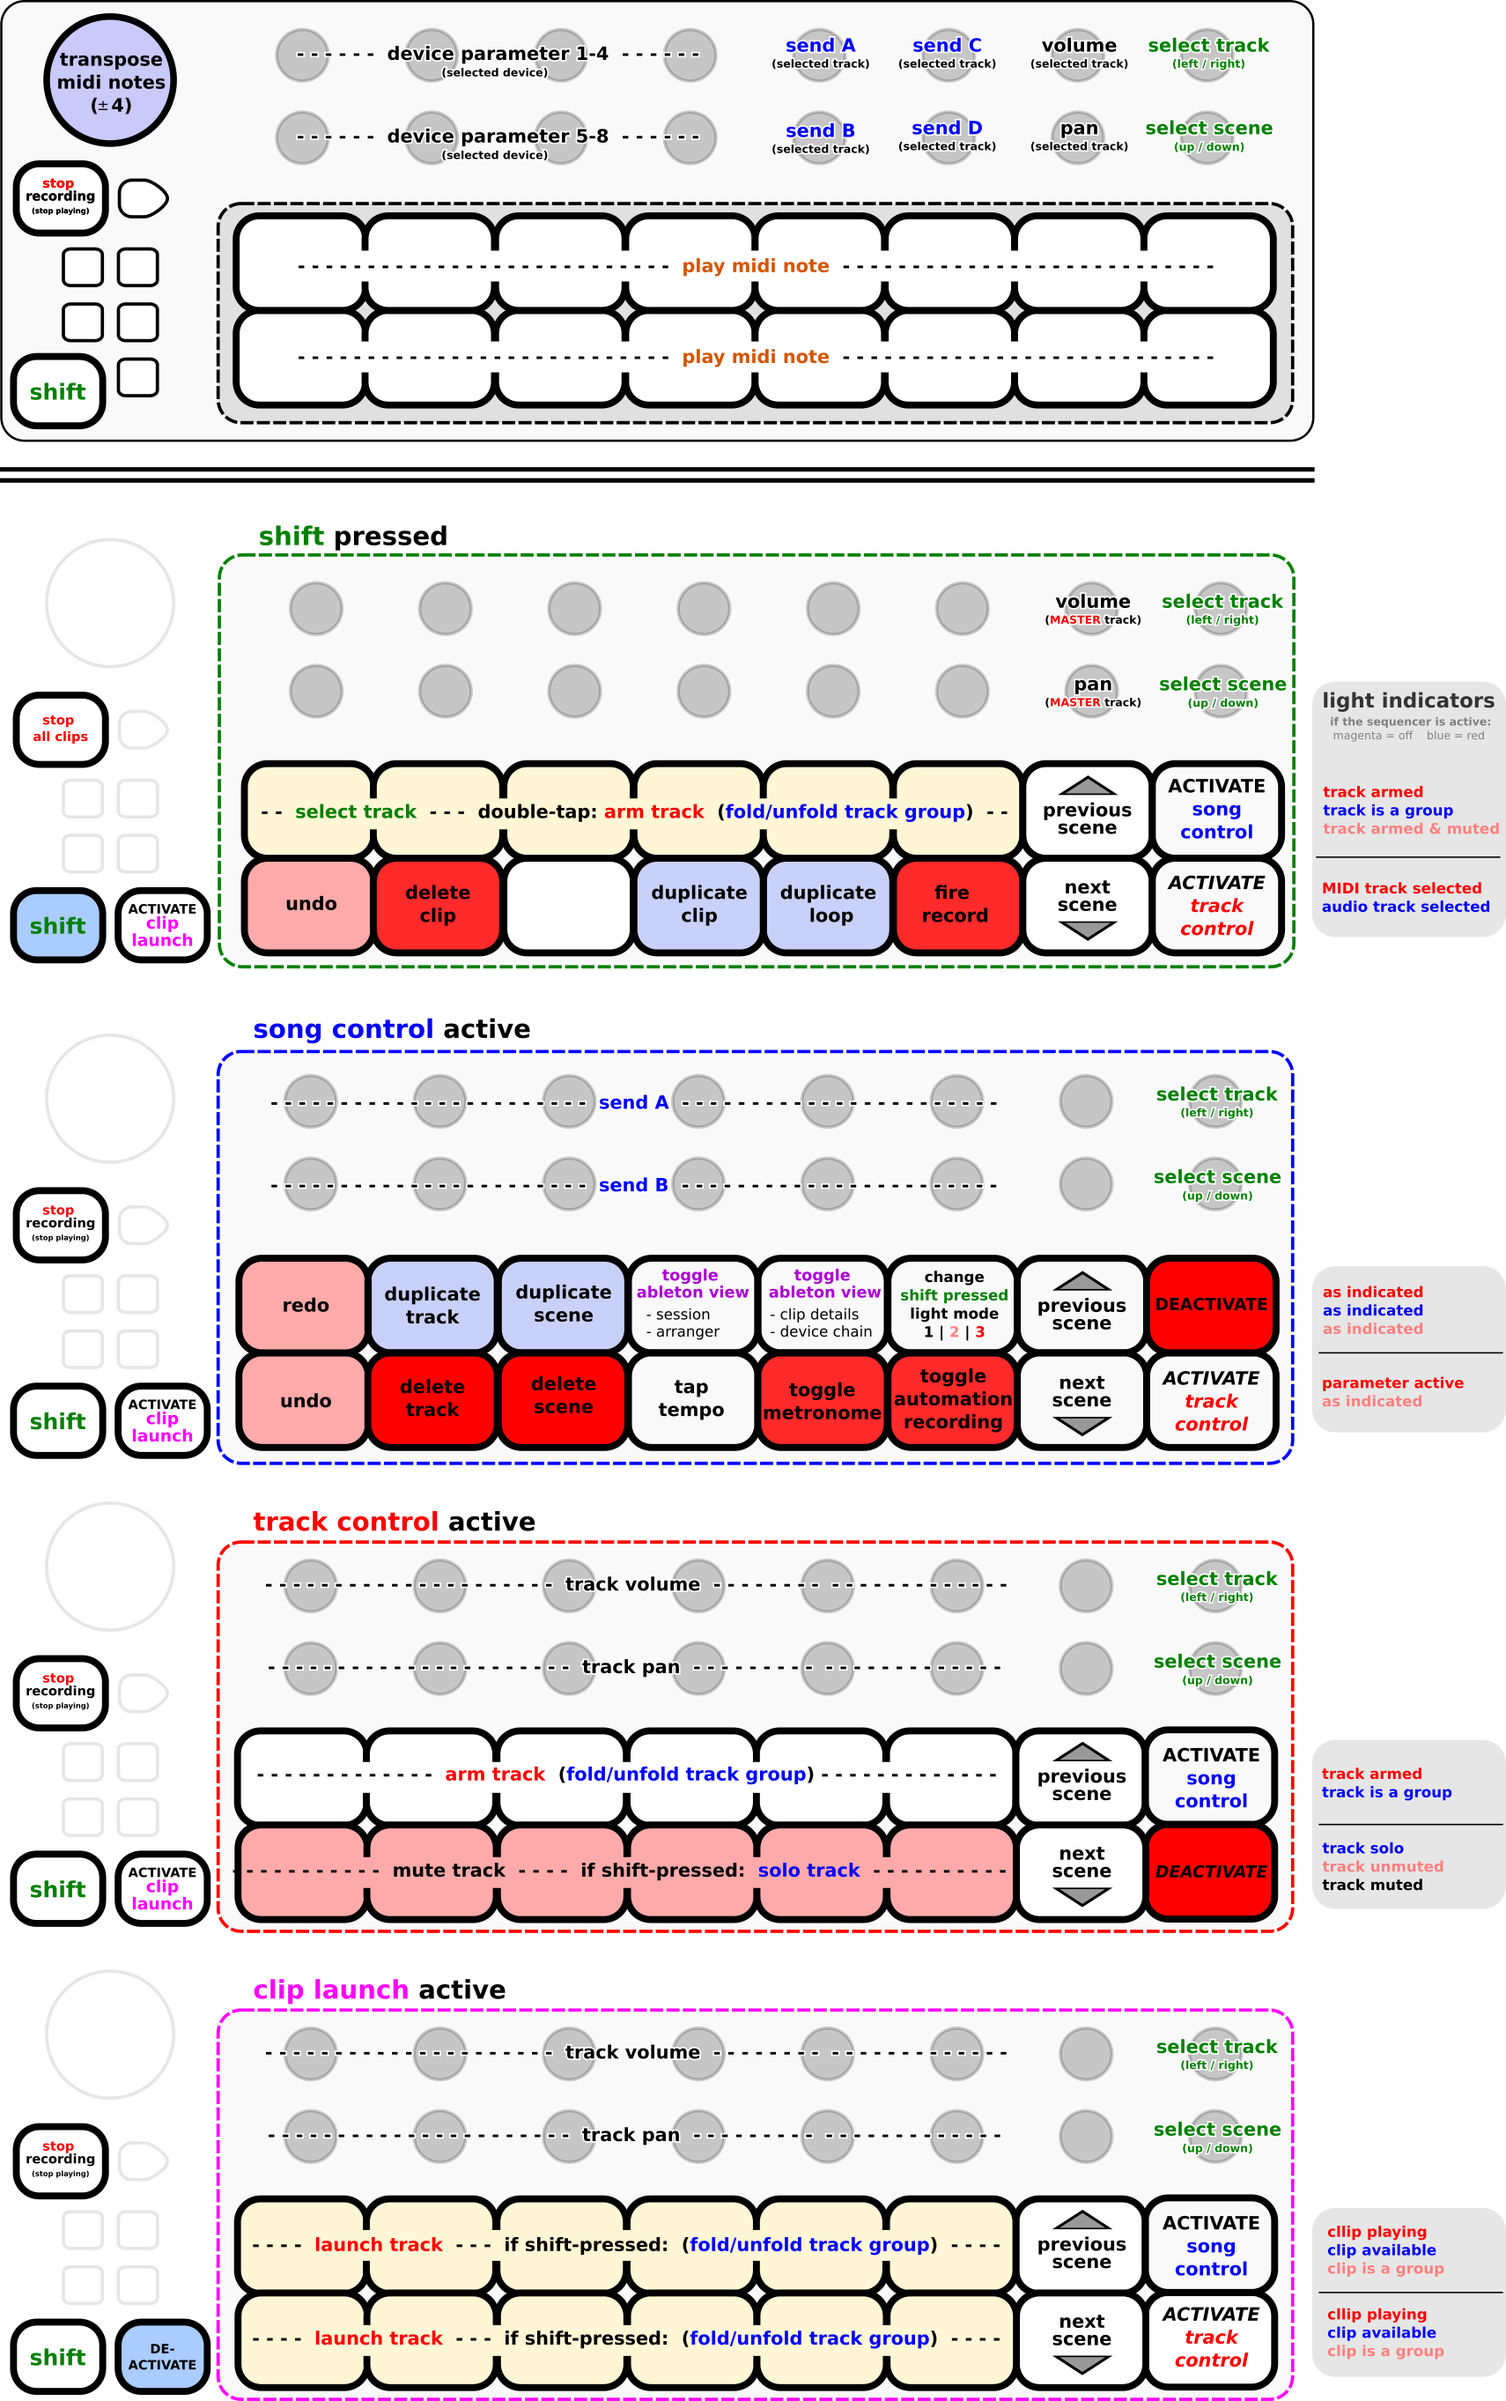
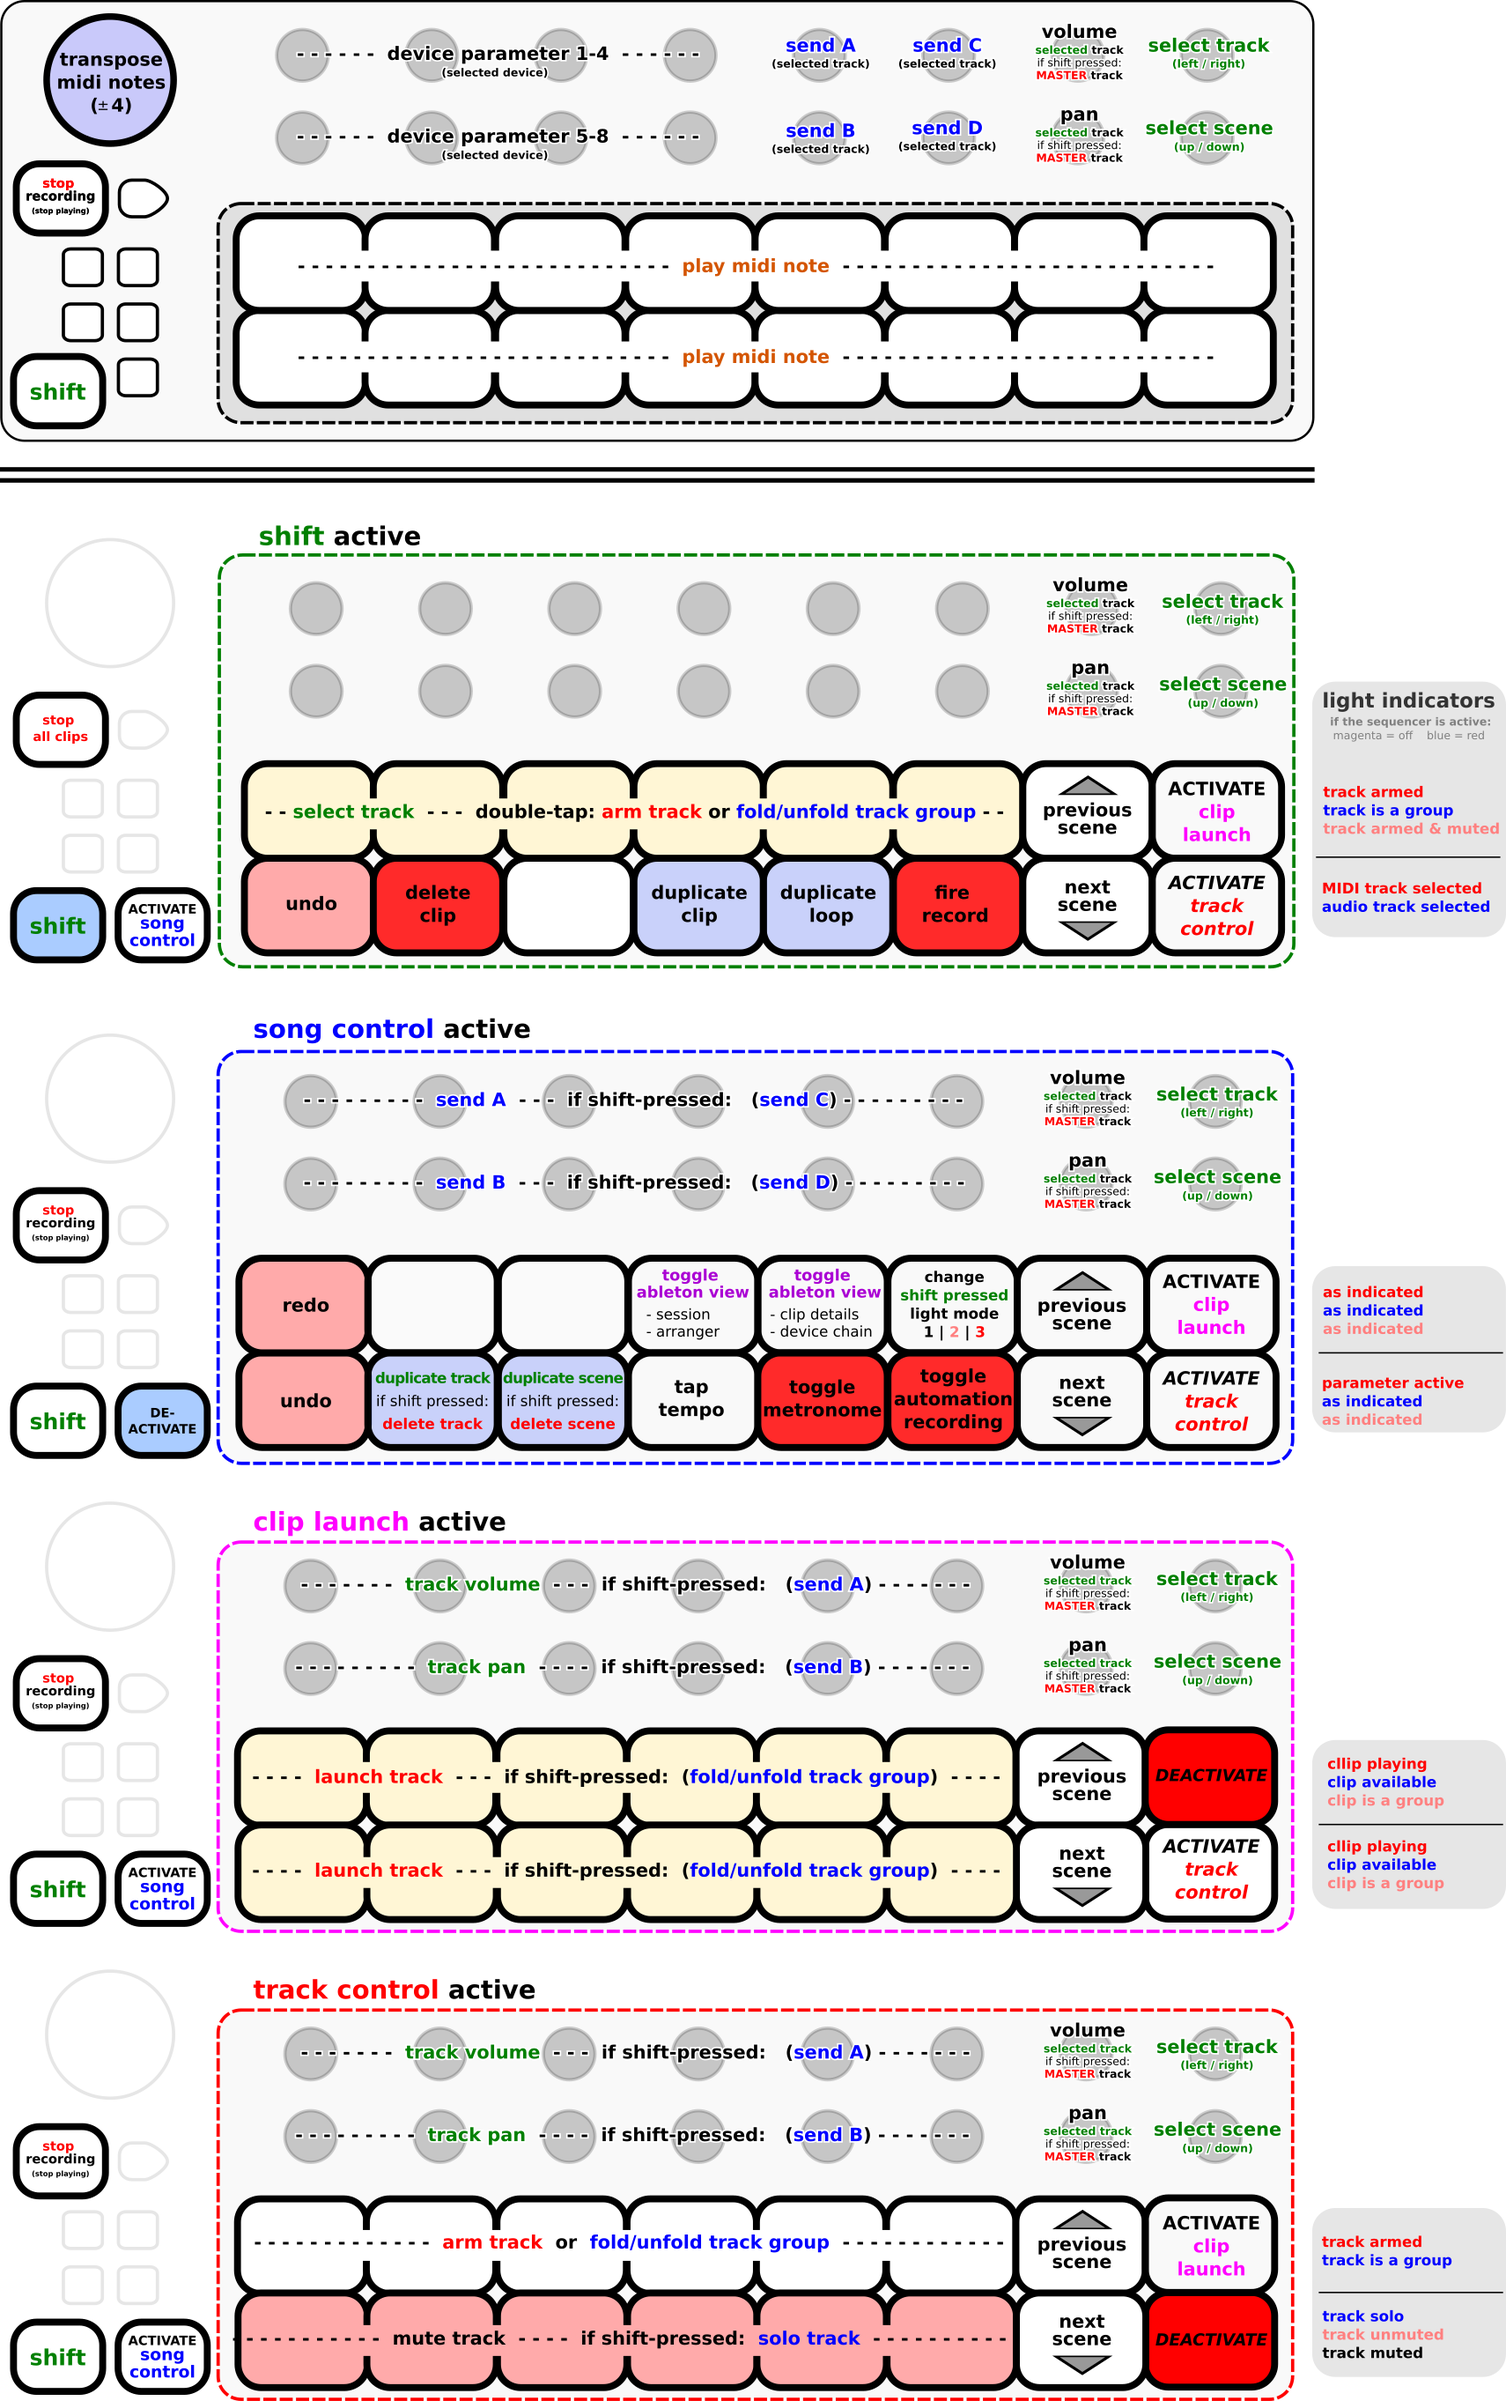
update readme and assignments image

diff --git a/README.md b/README.md
@@ -33,6 +33,10 @@ To indicate a successful setup, the top-row will light up red and blue (about 2 
 
 The `shift-button` is used to activate the control-features.   
 (**double-tap** it to make the shift-layer permanent, NOT the *"if shift-pressed"* behaviour!)
+
+The "if shift-pressed"* behaviour only works if the corresponding layer is activated permanently AND the `shift-button` is pressed!
+
+  
 `shift` + `button 8` and `shift` + `button 16`  and `shift + chan` are used to activate 
 the individual control-layers.   
 (**double-tap**  to make the control-layers remain activated until the activation button is pressed again!)  
@@ -48,13 +52,17 @@ The `transpose-slider` transposes the note-assignments of the buttons.
 
 - `encoder 5, 6, 13, 14` : send A, B, C, D of selected track
 
-- `encoder 7` : volume of selected track
+- `encoder 7` : volume of selected track 
+  
+  - *"if shift-pressed"*: volume of master-track
 
-- `encoder 15` : pan of selected track
+- `encoder 15` : pan of selected track 
+  
+  - *"if shift-pressed"*: pan of master-track
 
 --- 
 
-### If **shift** is pressed:
+### If **shift** is active:
 
 You can always **double-tap** `shift` to re-activate the shift-layer permanently!
 
@@ -71,8 +79,6 @@ The lights in the first row indicate the track-arm status:
 The lights in the second indicate the currently activated clip.  (red for midi, blue for audio)  
 (you can change this behaviour or turn the lights off! >> check `"scene control" + button 7`)
 
-
-
 The assignments are as follows:
 
 - `button 1-6`:  select track 1-6 of the currently focussed slots (red box)
@@ -84,7 +90,7 @@ The assignments are as follows:
   
   - if the control-layer is activated permanently, holding `shift` will switch to track-selection
 
-- `button 8`: activate **song control** (see below)
+- `button 8`: switch to **clip launch** (see below)
 
 - `button 9`: undo
 
@@ -104,17 +110,23 @@ The assignments are as follows:
   
   - if the control-layer is activated permanently, holding `shift` will switch to track-selection
 
-- `button 16` : activate **track control** (see below)
+- `button 16` : switch to **track control** (see below)
 
+- `chan` : switch to **song control** (see below)   
 
+   
+
+- `encoder 7` : volume of selected track 
+  
+  - *"if shift-pressed"*: volume of master-track
 
 - `encoder 8` : track-selection (left-right) 
 
 - `encoder 16` : scene selection (up-down)
 
-- `encoder 7` : volume of master-track
-
-- `encoder 15` : pan of master-track
+- `encoder 15` : pan of selected track 
+  
+  - *"if shift-pressed"*: pan of master-track
 
 ---
 
@@ -123,9 +135,11 @@ The assignments are as follows:
 Most lights are simply there to help remembering the button-assignments.
 The lights of `button 13` and `button 14` indicate the status of their corresponding parameter in Live 
 
-- `red` for ON 
+- `button 13` indicates the status of the metronome (e.g. `red` for on)
 
-- `off` for off
+- `button 14` indicates the status of "automation arm" (e.g. `red` for active)
+  
+  - "if shift-pressed"* and an automation has been overridden, the button will turn `blue`  
 
 The light of `button 7` indicates the visibility of the shift-button lights:
 
@@ -133,17 +147,13 @@ The light of `button 7` indicates the visibility of the shift-button lights:
 
 - `magenta` for only the top-row if `shift` is pressed
 
-- `red` for all lights if `shift` is pressed
+- `red` for all lights if `shift` is pressed  
 
-
+  
 
 The assignments are as follows:
 
 - `button 1` : redo last step
-
-- `button 2` : duplicate currently selected track
-
-- `button 3` : duplicate currently selected scene
 
 - `button 4` : toggle between Ableton's session-view and arrangement-view
 
@@ -155,37 +165,110 @@ The assignments are as follows:
 
 - `button 7` : select previous scene (e.g. go 1 scene up)
   
-  - if the control-layer is activated permanently, holding `shift` will switch to track-selection
+  - *"if shift-pressed"*: select previous track
 
-- `button 8` : get back to the normal behaviour (e.g. deactivate song control)
+- `button 8` : switch to **clip launch** (see below)
 
 - `button 9` : undo last step
 
-- `button 10` : delete currently selected track
+- `button 10` : duplicate currently selected track 
+  
+  - "if shift pressed"*: delete currently selected track
 
-- `button 11` : delete currently selected scene
+- `button 11` : duplicate currently selected scene
+  
+  - *"if shift pressed"*: delete currently selected scene
 
 - `button 12` : tap tempo
 
 - `button 13` : toggle metronome
 
-- `button 14` : toggle session automation record
+- `button 14` : toggle session automation record 
+  
+  - *"if shift-pressed"* and an automation has been overridden:  re-enable automation
 
 - `button 15` : select next scene (if at the end, add a new scene)
   
-  - if the control-layer is activated permanently, holding `shift` will switch to track-selection
+  - *"if shift-pressed"*: select next track
 
 - `button 16`: switch to **track control** (see below)
 
-- `chan` : switch to **scene launch** (see below)
+- `chan` : get back to the normal behaviour (e.g. deactivate **song control**)
 
-
+  
 
 - the top-row of the encoders (`1-6`) control "send A"
+  
+  - *"if shift-pressed"*: "send C"
 
 - the bottom-row of the encoders (`9-14`) control "send B"
+  
+  - *"if shift-pressed"*: "send D"
+
+- `encoder 7` : volume of selected track
+  
+  - *"if shift-pressed"*: volume of master-track
 
 - `encoder 8` : track-selection (left-right)
+
+- `encoder 15` : pan of selected track
+  
+  - *"if shift-pressed"*: pan of master-track
+
+- `encoder 16` : scene selection (up-down)
+
+---
+
+### If "clip launch"  is active
+
+In this control-layer, both button-rows (e.g. `1-6` and `9-14`)  represent clip-slots.
+The lights indicate the status of the clip-slots, e.g.:
+
+- `blue` indicates a slot with a clip
+
+- `red` indicates a clip that is playing (blinking indicates that it is triggered)
+
+- `magenta` indicates a group-track (`red` if playing)
+
+The assignments are as follows:
+
+- `button 1-6` : launch the clips present in the top-row of the selection.
+  
+  - *"if shift-pressed"* and the slot is a "group-slot": fold/unfold the corresponding group
+- `button 7` : select previous scene (e.g. go 1 scene up)
+  - *"if shift-pressed"*: select previous track
+
+- `button 9-14` : same as `1-6` but for the bottom row of the selection.
+
+- `button 8` : get back to the normal behaviour (e.g. deactivate **clip launch**)
+
+- `button 15` : select next scene (if at the end, add a new scene)
+  
+  - *"if shift-pressed"*: select next track
+
+- `button 16` : switch to **track control** (see below)
+
+- `chan` : switch to **song control** (see above)
+
+  
+
+- the top-row of the encoders (`1-6`) control the "track volume"
+  
+  - *"if shift-pressed"*: "send A"
+
+- the bottom-row of the encoders (`9-14`) control the "track pan"
+  
+  - *"if shift-pressed"*: "send B"
+
+- `encoder 7` : volume of selected track
+  
+  - *"if shift-pressed"*: volume of master-track
+
+- `encoder 8` : track-selection (left-right)
+
+- `encoder 15` : pan of selected track
+
+- - *"if shift-pressed"*: pan of master-track
 
 - `encoder 16` : scene selection (up-down)
 
@@ -211,7 +294,7 @@ The lights in the bottom-row indicate the mute / solo status of the correspondin
 
 - `off` if the track is muted and not solo
 
-
+  
 
 The assignments are as follows:
 
@@ -219,77 +302,45 @@ The assignments are as follows:
 
 - the buttons in the bottom row (9-14) set the **mute** status of the first 6 tracks in the red box
 
-- - holding `shift` while pressing the button will **solo** the corresponding track if **track control** is activated permanently (e.g. if the activation-button has been double-tapped)
+- - *"if shift-pressed"*:  **solo** the corresponding track
 
 - `button 7` : select previous scene (e.g. go 1 scene up)
   
-  - if the control-layer is activated permanently, holding `shift` will switch to track-selection
+  - *"if shift-pressed"*: select previous track
 
-- `button 8` : switch to **song control** (see above)  
+- `button 8` : switch to **clip launch** (see above)
 
 - `button 15` : select next scene (if at the end, add a new scene)
   
-  - if the control-layer is activated permanently, holding `shift` will switch to track-selection
+  - "if shift-pressed"*: select next track
 
-- `button 16` : get back to the normal behaviour (e.g. deactivate track control)
+- `button 16` : get back to the normal behaviour (e.g. deactivate **track control**)
 
-- `chan` : switch to **"scene launch"** (see below)
+- `chan` : switch to **"song control"** (see below)
 
-
-
-- the top-row of the encoders (`1-6`) control the "track volume"
-
-- the bottom-row of the encoders (`9-14`) control the "track pan"
-
-- `encoder 8` : track-selection (left-right)
-
-- `encoder 16` : scene selection (up-down)
-
----
-
-### If "clip launch"  is active
-
-In this control-layer, both button-rows (e.g. `1-6` and `9-14`)  represent clip-slots.
-The lights indicate the status of the clip-slots, e.g.:
-
-- `blue` indicates a slot with a clip
-
-- `red` indicates a clip that is playing (blinking indicates that it is triggered)
-
-- `magenta` indicates a group-track (`red` if playing)
-
-
-
-The assignments are as follows:
-
-- `button 1-6` : launch the clips present in the top-row of the selection.
   
-  - if "clip-launch" is activated permanently, holding down `shift`  while tapping on 
-    a "group-slot" will fold/unfold the corresponding group
-
-- `button 9-14` : same as `1-6` but for the bottom row of the selection.
-
-- `button 8` : switch to **song control** (see above)
-
-- `button 16` : switch to **track control** (see above)
-
-- `chan` : get back to the normal behaviour (e.g. deactivate "clip launch")
-
-
 
 - the top-row of the encoders (`1-6`) control the "track volume"
+  
+  - *"if shift-pressed"*: "send A"
 
 - the bottom-row of the encoders (`9-14`) control the "track pan"
+  
+  - *"if shift-pressed"*: "send B"
+
+- `encoder 7` : volume of selected track
+  
+  - *"if shift-pressed"*: volume of master-track
 
 - `encoder 8` : track-selection (left-right)
 
 - `encoder 16` : scene selection (up-down)
 
+- `encoder 15` : pan of selected track
+  
+  - *"if shift-pressed"*: pan of master-track
+
 ---
-
-
-
-
 
 # Thanks to
 
